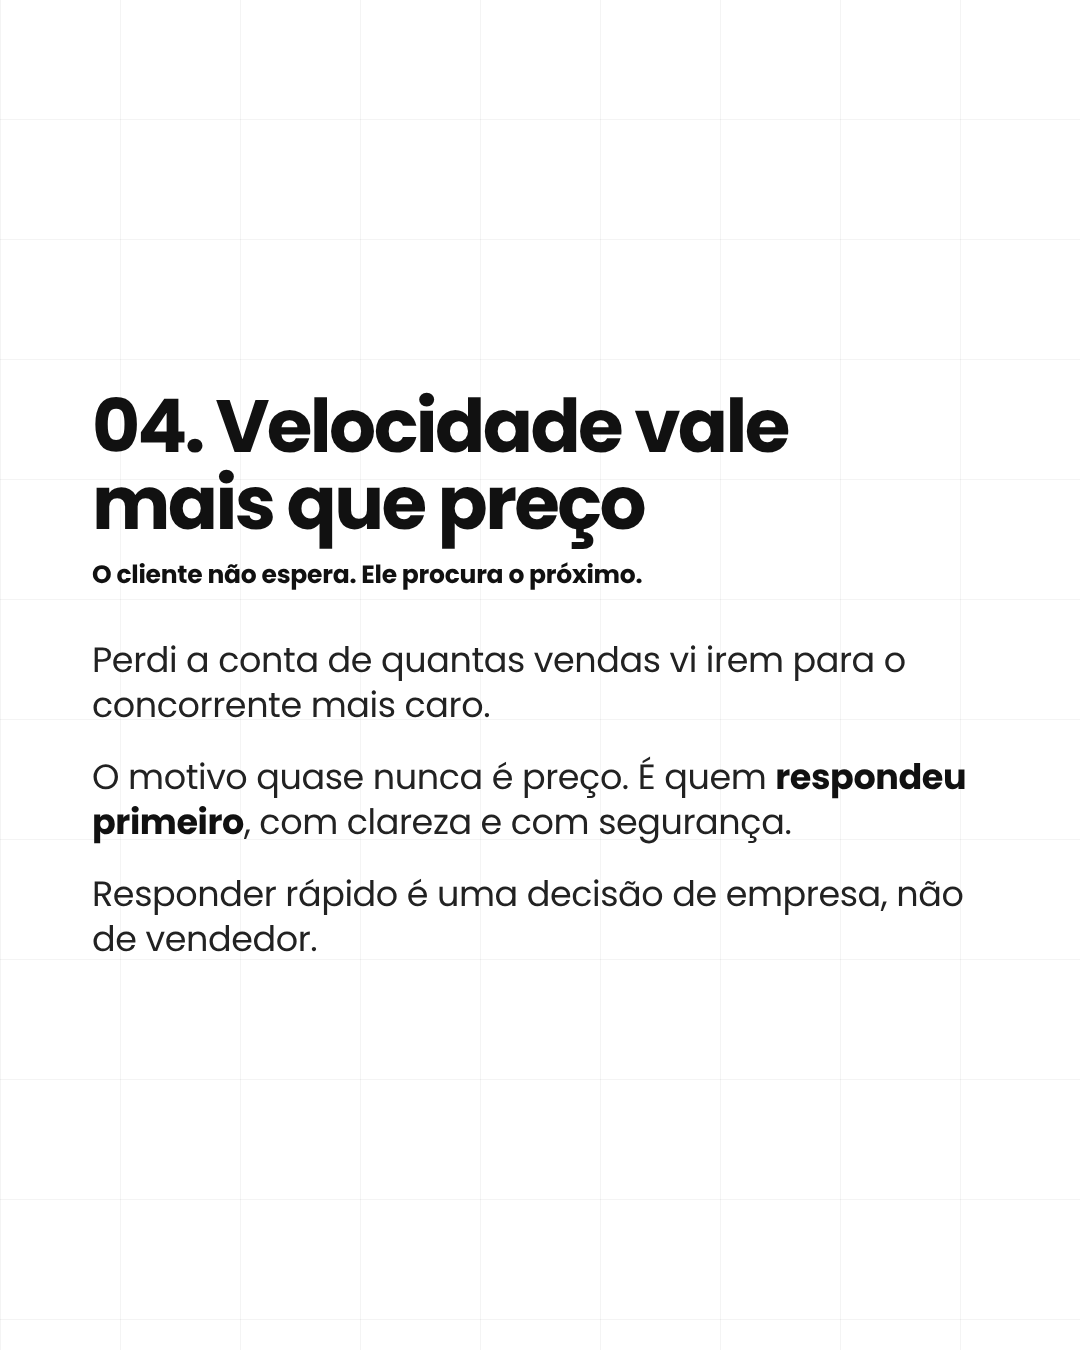
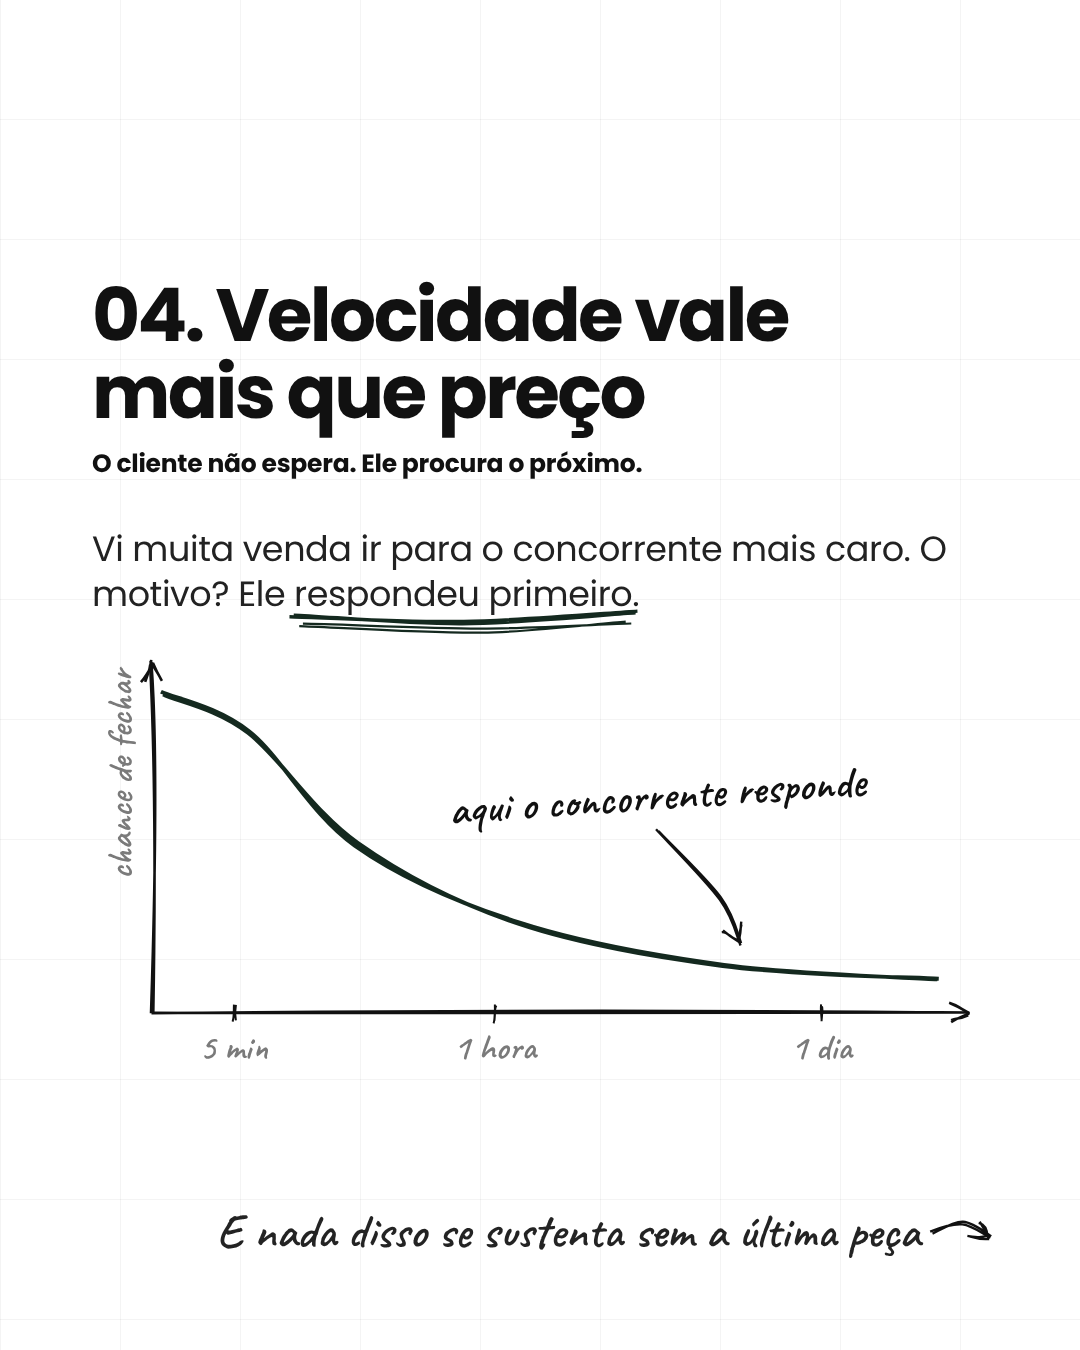
Storyboard com ganchos entre slides e desenhos à mão (rough.js)
Claude-Session: https://claude.ai/code/session_01CR2zLXebwu2nvAjBiSDjK9

diff --git a/carrossel/index.html b/carrossel/index.html
@@ -6,7 +6,7 @@
 <title>Gerador de Carrossel Zanellato</title>
 <link rel="preconnect" href="https://fonts.googleapis.com">
 <link rel="preconnect" href="https://fonts.gstatic.com" crossorigin>
-<link crossorigin="anonymous" rel="stylesheet" href="https://fonts.googleapis.com/css2?family=Archivo:wght@500;700;800;900&family=IBM+Plex+Mono:wght@400;500&family=Poppins:ital,wght@0,300;0,400;0,500;0,600;0,700;0,800;1,400&family=Source+Serif+4:ital,opsz,wght@0,8..60,600;0,8..60,700;0,8..60,900;1,8..60,600&display=swap">
+<link crossorigin="anonymous" rel="stylesheet" href="https://fonts.googleapis.com/css2?family=Archivo:wght@500;700;800;900&family=Caveat:wght@500;600;700&family=IBM+Plex+Mono:wght@400;500&family=Poppins:ital,wght@0,300;0,400;0,500;0,600;0,700;0,800;1,400&family=Source+Serif+4:ital,opsz,wght@0,8..60,600;0,8..60,700;0,8..60,900;1,8..60,600&display=swap">
 <style>
 /* ============================================================
    UI DO EDITOR
@@ -105,6 +105,11 @@ body.render .frame .num{display:none}
 .lst .ds{color:var(--muted)}
 .lst .no{font-weight:700;color:var(--ink);margin-right:18px}
 .pics{display:flex;gap:20px;margin-top:44px}
+.draw{position:relative;margin-top:36px;width:100%}
+.ovl{position:absolute;left:0;top:0;width:1080px;height:1350px;z-index:6;pointer-events:none;overflow:visible}
+.ovl text{font-family:Caveat,cursive;font-weight:600}
+.gancho{position:absolute;right:160px;bottom:92px;z-index:5;font:600 48px/1.1 Caveat,cursive;color:var(--ink);opacity:.92;text-align:right;max-width:760px}
+.hc,.hu{position:relative;white-space:nowrap}
 .pics.first{margin-top:0;margin-bottom:48px}
 .pic{flex:1;min-width:0;border-radius:22px;overflow:hidden;background:#e6e6e6}
 .pic img{width:100%;height:100%;object-fit:cover;display:block}
@@ -198,6 +203,7 @@ body.render .frame .num{display:none}
   <div id="stage"></div>
 </main>
 
+<script src="https://cdn.jsdelivr.net/npm/roughjs@4.6.6/bundled/rough.js"></script>
 <script src="https://cdn.jsdelivr.net/npm/html-to-image@1.11.11/dist/html-to-image.js"></script>
 <script src="https://cdnjs.cloudflare.com/ajax/libs/jszip/3.10.1/jszip.min.js"></script>
 <script>
@@ -256,6 +262,9 @@ const TIPOS = {
     ["texto","area","Texto (linha em branco = novo parágrafo)"],
     ["itens","area","Lista — uma por linha: Termo | descrição"],
     ["texto_final","area","Texto depois da lista"],
+    ["desenho","sel","Desenho à mão",["","alvo","funil","bolhas","grafico","pipeline"]],
+    ["rotulos","text","Rótulos do desenho (separe com |)"],
+    ["gancho","area","Gancho para o próximo slide (letra de mão)"],
     ["rodape","text","Rodapé (opcional)"],
   ]},
   foto:{nome:"Foto cheia", campos:[
@@ -284,6 +293,8 @@ const TIPOS = {
 const esc = s => String(s ?? "").replace(/[&<>"]/g, c => ({"&":"&amp;","<":"&lt;",">":"&gt;",'"':"&quot;"}[c]));
 function fmt(s){
   return esc(s)
+    .replace(/\[\[(.+?)\]\]/g,'<span class="hc">$1</span>')
+    .replace(/\{\{(.+?)\}\}/g,'<span class="hu">$1</span>')
     .replace(/\{handle\}/g, "<em>"+esc(state.marca.handle||"")+"</em>")
     .replace(/\*\*(.+?)\*\*/g,"<b>$1</b>")
     .replace(/\*(.+?)\*/g,"<em>$1</em>")
@@ -353,6 +364,7 @@ function renderSlide(s, i, total){
         <h2 class="ctt">${fmt(s.titulo)}</h2>
         ${s.texto?`<div class="ctx">${fmt(s.texto)}</div>`:""}
         <div class="cta">${fmt(s.chamada || "Salva esse post e segue {handle}")}</div>
+        ${s.desenho?`<div class="draw" data-kind="${esc(s.desenho)}" data-labels="${esc(s.rotulos||"")}" style="height:${Number(s.altura_desenho)||300}px"></div>`:""}
       </div>
       ${footer(s.rodape)}
     </div>`;
@@ -380,9 +392,100 @@ function renderSlide(s, i, total){
       ${pos==="depois do subtítulo"?pics:""}
       ${corpo}
       ${pos==="depois do texto"?pics:""}
+      ${s.desenho?`<div class="draw" data-kind="${esc(s.desenho)}" data-labels="${esc(s.rotulos||"")}" style="height:${Number(s.altura_desenho)||360}px"></div>`:""}
     </div>
+    ${s.gancho?`<div class="gancho">${fmt(s.gancho)}</div>`:""}
     ${footer(s.rodape)}
   </div>`;
+}
+
+/* ============================================================
+   DESENHOS À MÃO (rough.js)
+   ============================================================ */
+function offs(el, root){ let x=0,y=0,e=el; while(e && e!==root){ x+=e.offsetLeft; y+=e.offsetTop; e=e.offsetParent } return {x,y,w:el.offsetWidth,h:el.offsetHeight} }
+function hashSeed(str){ let h=7; for(const c of str) h=(h*31+c.charCodeAt(0))%100000; return h||1 }
+function drawAll(root){
+  if (!window.rough) return;
+  root.querySelectorAll(".slide").forEach((sl,idx)=>{
+    sl.querySelectorAll(".ovl").forEach(o=>o.remove());
+    const NS="http://www.w3.org/2000/svg";
+    const svg=document.createElementNS(NS,"svg"); svg.setAttribute("class","ovl"); svg.setAttribute("viewBox","0 0 1080 1350"); sl.appendChild(svg);
+    const cs=getComputedStyle(sl); const ink=cs.getPropertyValue("--ink").trim()||"#111", ac=cs.getPropertyValue("--ac").trim()||ink, muted=cs.getPropertyValue("--muted").trim()||"#777";
+    const rc=rough.svg(svg); let seed=hashSeed(sl.textContent.slice(0,60)+idx);
+    const O=(o={})=>Object.assign({stroke:ink,strokeWidth:2.6,roughness:1.6,bowing:1.4,seed:(seed=seed+11)},o);
+    const add=n=>svg.appendChild(n);
+    const txt=(x,y,t,size=40,anchor="start",fill=ink,rot=0)=>{const e=document.createElementNS(NS,"text");e.setAttribute("x",x);e.setAttribute("y",y);e.setAttribute("font-size",size);e.setAttribute("text-anchor",anchor);e.setAttribute("fill",fill);if(rot)e.setAttribute("transform",`rotate(${rot} ${x} ${y})`);e.textContent=t;add(e)};
+    const arrow=(x1,y1,x2,y2,o={})=>{const mx=(x1+x2)/2+(o.bend||0), my=(y1+y2)/2-(o.lift??30);
+      add(rc.curve([[x1,y1],[mx,my],[x2,y2]],O({strokeWidth:2.4,...o})));
+      const a=Math.atan2(y2-my,x2-mx), L=20;
+      add(rc.line(x2,y2,x2-L*Math.cos(a-0.5),y2-L*Math.sin(a-0.5),O({strokeWidth:2.4,...o})));
+      add(rc.line(x2,y2,x2-L*Math.cos(a+0.5),y2-L*Math.sin(a+0.5),O({strokeWidth:2.4,...o})))};
+    // marcações no texto
+    sl.querySelectorAll(".hc").forEach(e=>{const b=offs(e,sl); add(rc.ellipse(b.x+b.w/2,b.y+b.h/2+3,b.w+34,b.h+14,O({stroke:ac,strokeWidth:3,roughness:.9,bowing:.4})))});
+    sl.querySelectorAll(".hu").forEach(e=>{const b=offs(e,sl); const y=b.y+b.h-2;
+      add(rc.curve([[b.x-4,y],[b.x+b.w*.5,y+7],[b.x+b.w+6,y-3]],O({stroke:ac,strokeWidth:3.4,roughness:1.8})));
+      add(rc.curve([[b.x+8,y+10],[b.x+b.w*.55,y+15],[b.x+b.w-4,y+8]],O({stroke:ac,strokeWidth:2.2,roughness:2})))});
+    // gancho: seta à mão depois do texto
+    const g=sl.querySelector(".gancho"); if(g){const b=offs(g,sl); arrow(b.x+b.w+12,b.y+b.h*.55,b.x+b.w+70,b.y+b.h*.55+4,{lift:14,stroke:ink})}
+    // desenhos
+    sl.querySelectorAll(".draw").forEach(d=>{
+      const b=offs(d,sl), k=d.dataset.kind, L=(d.dataset.labels||"").split("|").map(x=>x.trim());
+      const {x,y,w,h}=b;
+      if(k==="funil"){
+        const top=y+24, neck=y+h*.64, cx=x+w*.5, tw=w*.46, nw=w*.10;
+        add(rc.line(cx-tw/2,top,cx-nw/2,neck,O())); add(rc.line(cx+tw/2,top,cx+nw/2,neck,O()));
+        add(rc.ellipse(cx,top,tw,38,O()));
+        add(rc.line(cx-nw/2,neck,cx-nw/2,neck+56,O())); add(rc.line(cx+nw/2,neck,cx+nw/2,neck+56,O()));
+        txt(cx,top+12,L[0]||"leads",40,"middle",muted);
+        txt(cx,neck+108,L[4]||"vendas",46,"middle",ink);
+        const edge=(t,side)=>[cx+side*(tw/2+(nw/2-tw/2)*t), top+(neck-top)*t];
+        const holes=[[.22,-1],[.42,1],[.66,-1]];
+        holes.forEach(([t,side],i)=>{ const [hx,hy]=edge(t,side);
+          add(rc.circle(hx,hy,14,O({fill:ac,fillStyle:"solid",stroke:ac})));
+          for(let j=1;j<=2;j++) add(rc.circle(hx+side*14*j,hy+24*j,8,O({fill:ac,fillStyle:"solid",stroke:ac,roughness:1})));
+          txt(hx+side*36, hy+12, L[i+1]||"", 38, side<0?"end":"start", ac, side*-2)});
+      } else if(k==="bolhas"){
+        const c1x=x+w*.20, c2x=x+w*.66, cy=y+h*.5;
+        add(rc.circle(c1x,cy,h*.42,O()));
+        add(rc.circle(c2x,cy,h*.86,O({stroke:ac,fill:ac,fillStyle:"hachure",hachureGap:14,fillWeight:1.6})));
+        txt(c1x,cy+10,L[0]||"novo",40,"middle",ink);
+        txt(c1x,cy+h*.21+48,L[1]||"",36,"middle",muted);
+        txt(c2x,cy+14,L[2]||"base",56,"middle",ink);
+        txt(c2x,cy+h*.43+48,L[3]||"",36,"middle",muted);
+      } else if(k==="grafico"){
+        const ox=x+60, oy=y+h-60, ex=x+w-20, ey=y+10;
+        add(rc.line(ox,oy,ex,oy,O())); add(rc.line(ox,oy,ox,ey,O()));
+        add(rc.line(ex,oy,ex-18,oy-10,O())); add(rc.line(ex,oy,ex-18,oy+10,O()));
+        add(rc.line(ox,ey,ox-10,ey+18,O())); add(rc.line(ox,ey,ox+10,ey+18,O()));
+        const W=ex-ox, H=oy-ey;
+        const pts=[[ox+10,ey+30],[ox+W*.12,ey+H*.2],[ox+W*.25,ey+H*.52],[ox+W*.45,ey+H*.74],[ox+W*.7,ey+H*.86],[ex-30,ey+H*.9]];
+        add(rc.curve(pts,O({stroke:ac,strokeWidth:4,roughness:1.2})));
+        txt(ox-20,ey+6,L[0]||"",36,"end",muted,-90);
+        const ticks=(L[1]||"").split(",").map(t=>t.trim()).filter(Boolean);
+        ticks.forEach((t,i)=>{const tx=ox+W*[.1,.42,.82][i]; add(rc.line(tx,oy-8,tx,oy+8,O({strokeWidth:2}))); txt(tx,oy+46,t,36,"middle",muted)});
+        if(L[2]){ txt(ox+W*.62,ey+H*.42,L[2],44,"middle",ink,-4); arrow(ox+W*.62,ey+H*.48,ox+W*.72,ey+H*.8,{lift:-10,bend:20}) }
+      } else if(k==="pipeline"){
+        const n=3, bw=(w-2*70)/n, by=y+h*.18, bh=h*.5;
+        for(let i=0;i<n;i++){ const bx=x+i*(bw+70);
+          add(rc.rectangle(bx,by,bw,bh,O(i===n-1?{stroke:ac,fill:ac,fillStyle:"hachure",hachureGap:12}:{})));
+          txt(bx+bw/2,by+bh/2+16,L[i]||"",46,"middle",ink);
+          if(i<n-1) arrow(bx+bw+10,by+bh/2,bx+bw+60,by+bh/2,{lift:10}) }
+        if(L[3]) txt(x+w/2,by+bh+72,L[3],40,"middle",muted);
+      } else if(k==="alvo"){
+        const lx=x+10, ly=y+40, lw=w*.36;
+        add(rc.rectangle(lx,ly,lw,h-90,O()));
+        for(let i=0;i<5;i++){ const yy=ly+50+i*((h-170)/4); add(rc.line(lx+30,yy,lx+lw-30-(i%2)*40,yy,O({strokeWidth:2,stroke:muted}))) }
+        add(rc.line(lx-10,ly-10,lx+lw+10,ly+h-80,O({stroke:ac,strokeWidth:4}))); add(rc.line(lx+lw+10,ly-10,lx-10,ly+h-80,O({stroke:ac,strokeWidth:4})));
+        txt(lx+lw/2,ly+h-40,L[0]||"",38,"middle",muted);
+        const cx=x+w*.76, cy=y+(h-50)/2+10, r=(h-90)/2;
+        [1,.66,.33].forEach((f,i)=>add(rc.circle(cx,cy,2*r*f,O(i===2?{fill:ac,fillStyle:"solid",stroke:ac}:{}))));
+        txt(cx,ly+h-40,L[1]||"",42,"middle",ink);
+        arrow(lx+lw+30,cy,cx-r-20,cy,{lift:40});
+      } else if(k==="sublinhado"){
+        add(rc.curve([[x,y+20],[x+w*.5,y+30],[x+w*.85,y+14]],O({stroke:ac,strokeWidth:4})));
+      }
+    });
+  });
 }
 
 /* ajusta o título da capa para ocupar ~68% da largura */
@@ -418,6 +521,7 @@ async function renderAll(){
       <div style="transform:scale(${zoom});transform-origin:0 0;width:1080px;height:1350px">${renderSlide(s,i,n)}</div></div>`).join("");
   try { await document.fonts.ready } catch(e){}
   fitCovers(stage);
+  try { drawAll(stage) } catch(e){ console.error(e) }
   stage.querySelectorAll(".frame").forEach(f=>f.onclick=()=>{ sel=+f.dataset.i; renderCards(); document.querySelector(`.card[data-i="${sel}"]`)?.scrollIntoView({behavior:"smooth",block:"start"}) });
   renderChecks();
 }

diff --git a/carrossel/ESTILO.md b/carrossel/ESTILO.md
@@ -60,3 +60,11 @@ Objetivo: parar o scroll sendo elegante. O hook é o herói.
 - Tudo branco/neutro, sem neon. Margem de segurança de 80 px.
 - Referências de tipografia: contraste de peso/estilo, escala extrema, palavras pequenas encaixadas nos vãos.
 O slide 1 do roteiro usa `"tipo": "pronta"` apontando para `capa/capa.png`.
+
+## Storyboard (curiosidade slide a slide)
+- Todo slide de conteúdo termina com um **gancho** (`"gancho"`): uma frase em letra de mão (Caveat) + seta desenhada,
+  que abre uma pergunta respondida só no slide seguinte. Uma linha, sem ponto final. Ex.: "E o maior vazamento nem está no anúncio".
+- **Desenhos à mão** (`"desenho"` + `"rotulos"` separados por `|`), estilo rabisco (rough.js):
+  `alvo` (lista riscada → alvo), `funil` (funil com furos), `bolhas` (pequeno vs grande), `grafico` (curva caindo), `pipeline` (3 etapas).
+- Marcações no texto: `[[palavra]]` = círculo à mão · `{{palavra}}` = sublinhado à mão.
+- Um desenho por slide no máximo; o texto encolhe para dar espaço ao desenho.
